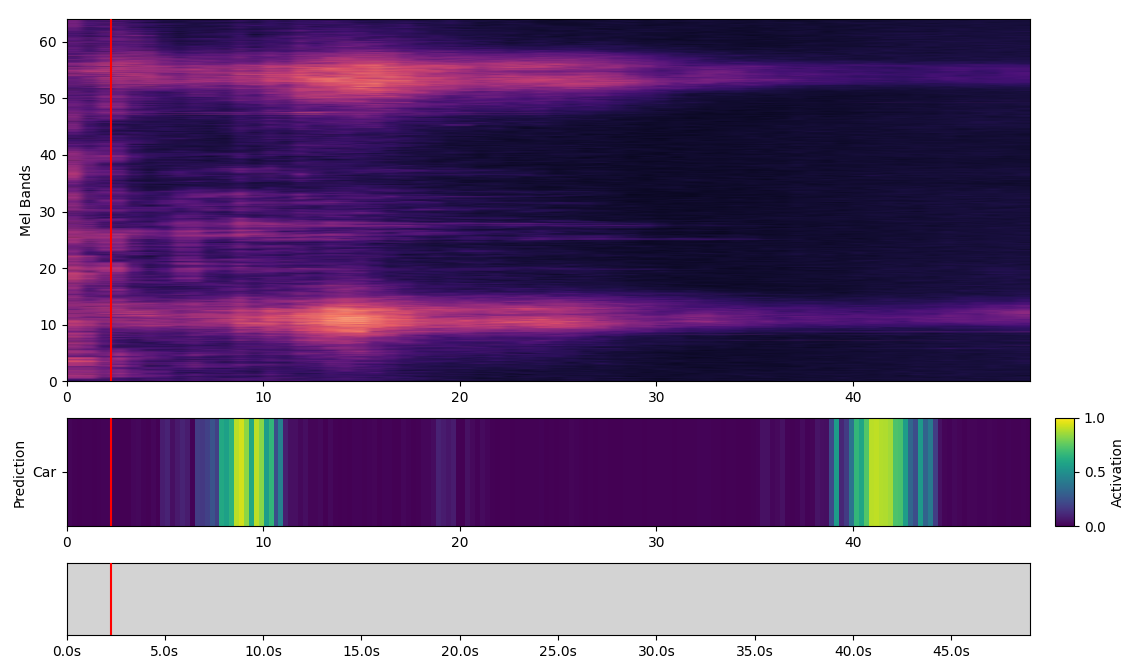
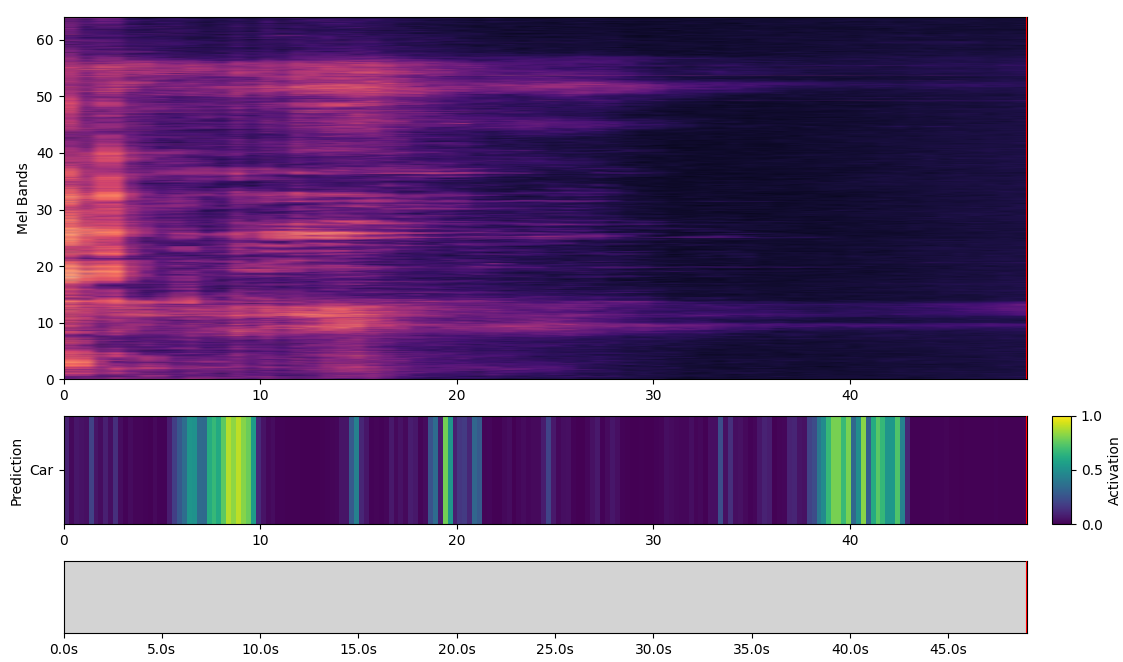
pres

diff --git a/demonstration/interactive/SED.py b/demonstration/interactive/SED.py
@@ -97,16 +97,14 @@ if __name__ == "__main__":
 
     wav_path_talking_messa = 'data/data_collected/Testdata/A1-0002_snakking-uttafor-messa.wav' # 0-25 sek
 
-    # Normalisering
-
 
     # Sett input
-    wav_path = wav_path_talking_messa 
+    wav_path = wav_path_messa_25 
 
     info = sf.info(wav_path)
     sr = info.samplerate
-    start_time = 0
-    end_time = 28
+    start_time = 130
+    end_time = 180
     start_frame = int(start_time * sr)
     stop_frame = int(end_time * sr)
     waveform, _ = sf.read(wav_path, start= start_frame, stop=stop_frame)

diff --git a/README.md b/README.md
@@ -151,4 +151,5 @@ For annotation:
 Future improvements: 
 - Per-Channel Energy Normalization (PCEN) ? (https://www.kaggle.com/code/mauriciofigueiredo/methods-for-sound-noise-reduction?utm_source=chatgpt.com)
 - Low-pass/High-pass/Band-pass or Wiener filter for background noise
+- Localization: range doppler map
 
